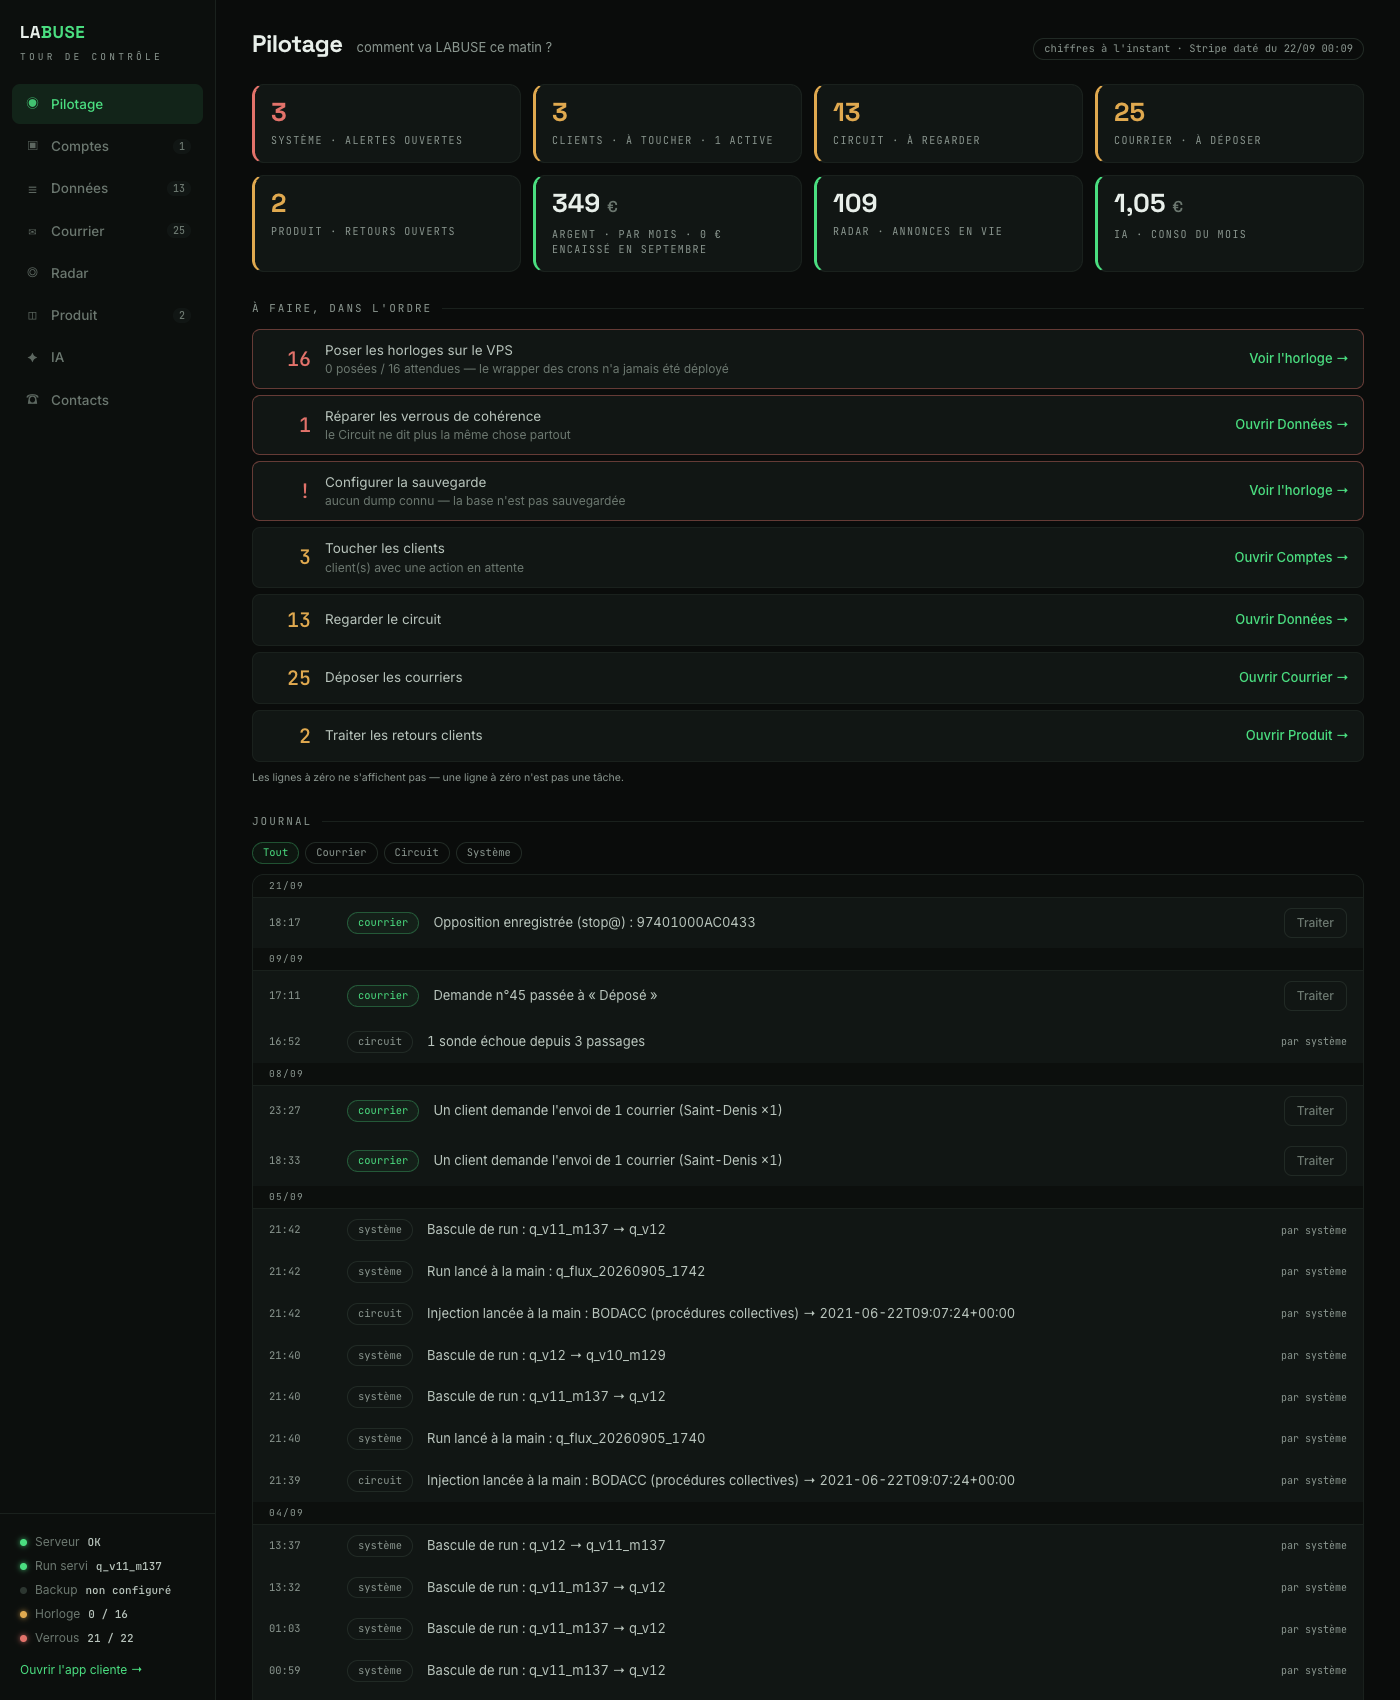
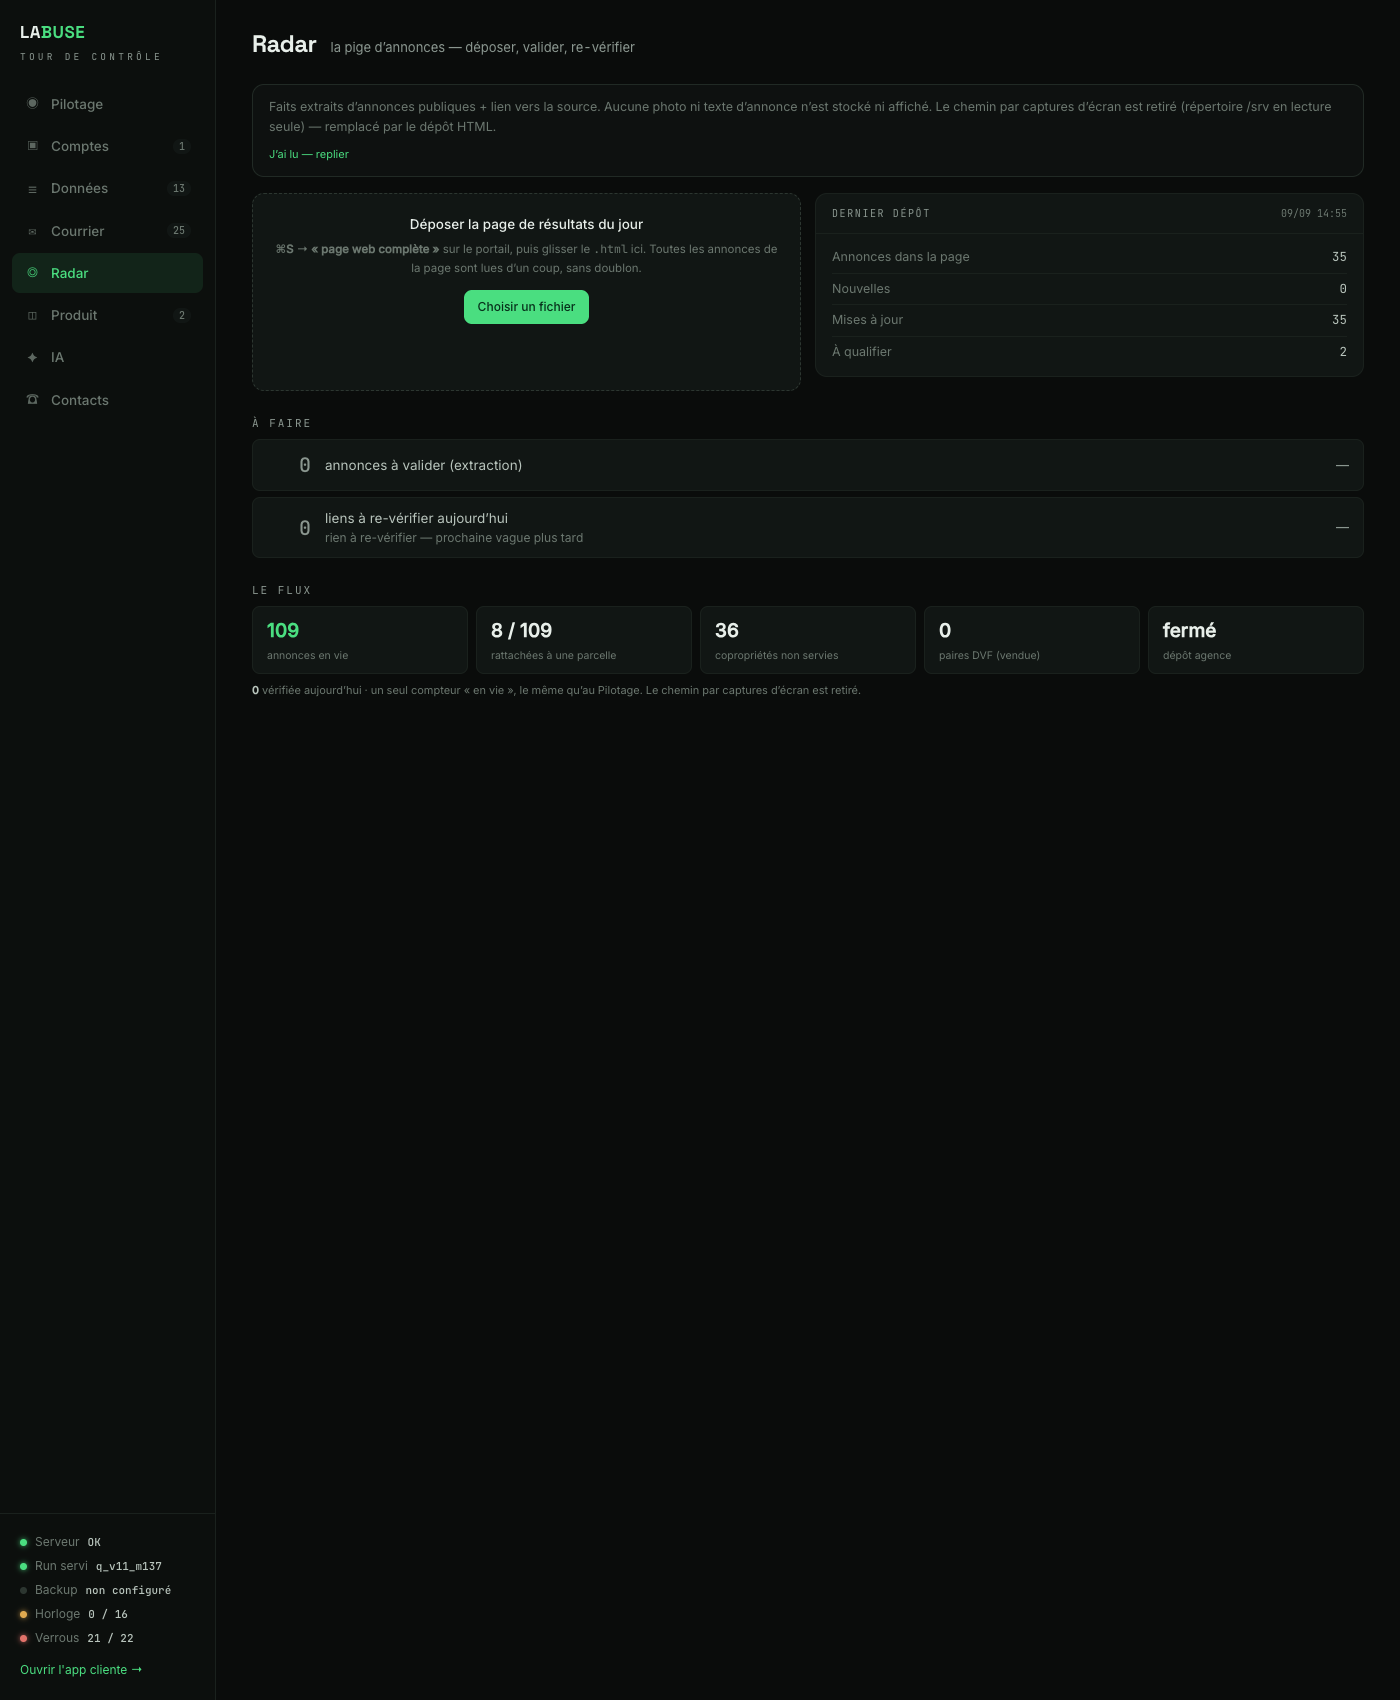
DASHBOARD-4 Lot 3 — Radar : retrait du bandeau descriptif
R1 : le bandeau « Faits extraits d'annonces publiques… » et son bouton
« J'ai lu — replier » (état localStorage radar-bandeau-lu) sont retirés de
RadarSection — bruit d'exploitation, jamais une action.

Preuve : captures/dashboard4/lot3-radar-{avant,apres}.png (bandeau « Faits
extraits » absent après). tsc vert.

diff --git a/frontend/src/components/admin/Radar.tsx b/frontend/src/components/admin/Radar.tsx
@@ -235,20 +235,8 @@ function AFaire({ n, titre, phrase, ouvert, onToggle, children }: {
   )
 }
 
-// ── bandeau descriptif repliable (mémoire locale) ──
-function Bandeau() {
-  const [lu, setLu] = useState(() => { try { return localStorage.getItem('radar-bandeau-lu') === '1' } catch { return false } })
-  if (lu) return <button onClick={() => setLu(false)} className="self-start text-[11px] text-txt-dim hover:text-txt">ⓘ à propos du Radar</button>
-  const replier = () => { try { localStorage.setItem('radar-bandeau-lu', '1') } catch { /* indispo */ } ; setLu(true) }
-  return (
-    <div className="rounded-xl border border-line-2 bg-surface-2/50 px-4 py-3 text-[12.5px] leading-relaxed text-txt-mut">
-      <p>Faits extraits d’annonces publiques + lien vers la source. Aucune photo ni texte d’annonce n’est
-        stocké ni affiché. Le chemin par captures d’écran est retiré (répertoire /srv en lecture seule) —
-        remplacé par le dépôt HTML.</p>
-      <button onClick={replier} className="mt-2 text-[11px] text-mint hover:underline">J’ai lu — replier</button>
-    </div>
-  )
-}
+// DASHBOARD-4 (R1) — le bandeau descriptif « Faits extraits d'annonces publiques… » et son bouton
+// « J'ai lu — replier » ont été retirés (bruit d'exploitation, jamais une action).
 
 export function RadarSection() {
   const qc = useQueryClient()
@@ -280,8 +268,6 @@ export function RadarSection() {
 
   return (
     <div className="flex flex-col gap-4">
-      <Bandeau />
-
       {/* Section 1 — dépôt du jour + bilan du dernier dépôt */}
       <div className="grid grid-cols-2 gap-3.5 max-[1100px]:grid-cols-1">
         <DepotHtml onDepose={onDepose} />
